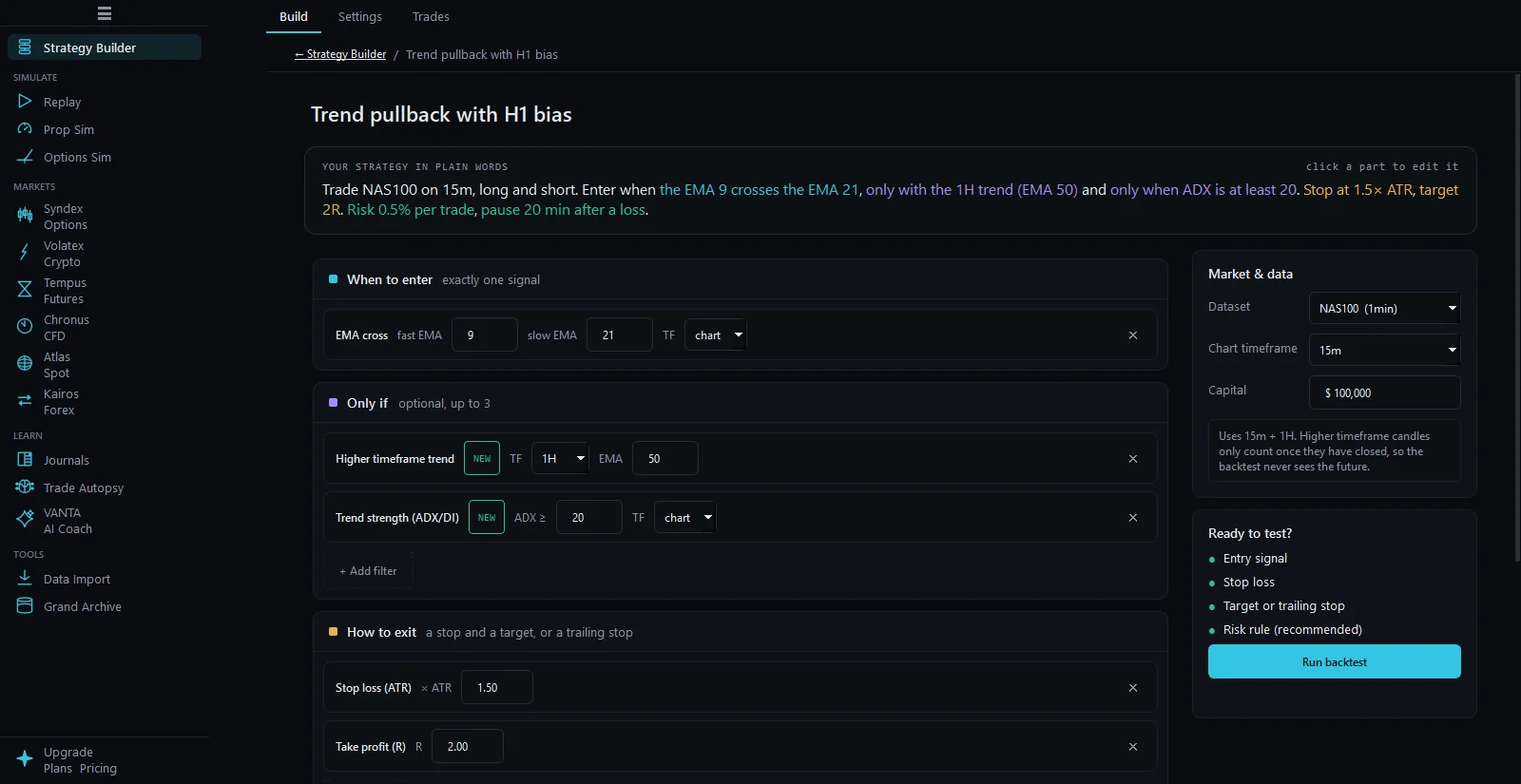
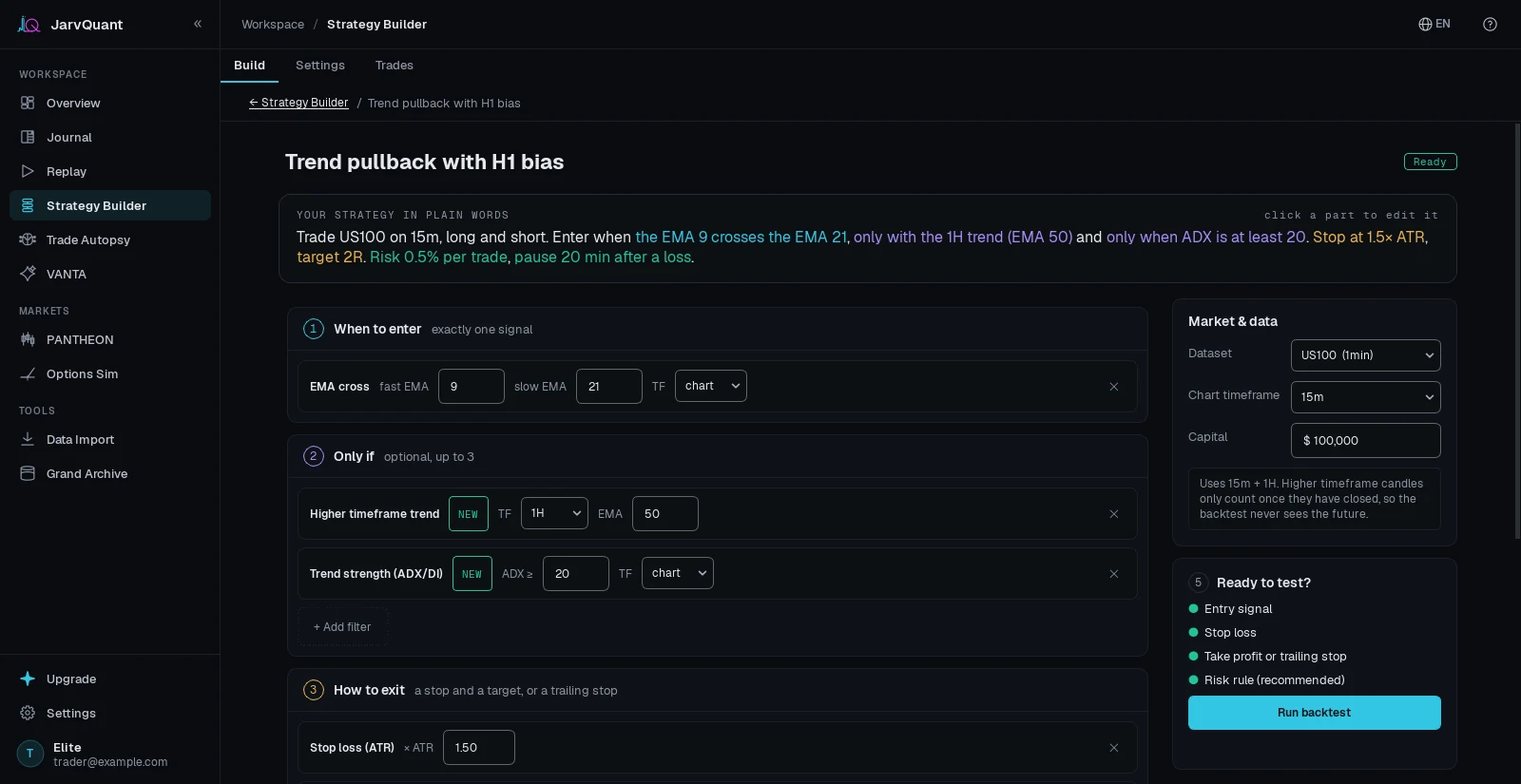
Start page for 2.0: intro ends on 10 December 2026, statements corrected, screenshots from the 2.0 app
Intro
- The opening sequence plays until the end of 10 December 2026 (visitor's
  clock); from 11 December the inline script returns before anything shows.

Statements that 2.0 made untrue
- "9 years of data included" is gone (start page EN/DE, llms.txt):
  JarvQuant ships no market data, you import your own.
- The journal is free and without an entry limit on every plan (app:
  FREE_JOURNAL_LIMIT = None since 1.1.2). Plan lists, FAQ, structured data,
  llms.txt and the price cards on the compare page now say so; the Pro
  list names "Practise any archive setup in Replay" instead, as the app's
  own pricing page does.
- VirusTotal: the linked result belonged to the 1.x installer and the 2.0
  installer has no entry there. The claim and the link are removed (hero,
  FAQ, llms.txt) until a result for 2.0 exists.
- Pricing: new purchases are paused since the 2.0 release, and Founder is
  marked as not on sale at the moment (same wording as release notes and app).

Screenshots
- Six shots rendered from the 2.0 source (release/2.0.0, 6c0132c) in an
  isolated home with made-up journal data and generated candles: Overview,
  Replay with drawing tools, Journal, Trade Autopsy, PANTHEON (Syndex option
  chain), Strategy Builder. The 1.1.0 shots of Session review and Grand
  Archive are removed. Tabs, captions (EN/DE), alt texts and the structured
  data list follow.

diff --git a/index.html b/index.html
@@ -59,11 +59,12 @@
         "Your trades and journals stay on your PC; VANTA only sends what you ask about to the AI provider you choose, or runs fully local"
       ],
       "screenshot": [
+        "https://www.jarvquant.com/assets/app-overview.webp",
         "https://www.jarvquant.com/assets/app-replay.webp",
+        "https://www.jarvquant.com/assets/app-journal.webp",
+        "https://www.jarvquant.com/assets/app-autopsy.webp",
         "https://www.jarvquant.com/assets/app-pantheon.webp",
-        "https://www.jarvquant.com/assets/app-session.webp",
-        "https://www.jarvquant.com/assets/app-builder.webp",
-        "https://www.jarvquant.com/assets/app-archive.webp"
+        "https://www.jarvquant.com/assets/app-builder.webp"
       ],
       "offers": [
         {
@@ -71,7 +72,7 @@
           "name": "Starter (Free)",
           "price": "0",
           "priceCurrency": "EUR",
-          "description": "Free forever, no credit card required. Includes bar-by-bar market replay, data imports, trade journal (10 entries rolling), and live-candle replay."
+          "description": "Free forever, no credit card required. Includes bar-by-bar market replay, data imports, an unlimited trade journal, and live-candle replay."
         },
         {
           "@type": "Offer",
@@ -84,7 +85,7 @@
             "priceCurrency": "EUR",
             "unitText": "MON"
           },
-          "description": "Unlimited journal entries. Strategy Builder with rules and constraints. Prop Firm Challenge Simulator. Backtesting engine. Algorithmic Trade Autopsy. 300+ strategy playbooks via the Grand Archive."
+          "description": "Strategy Builder with rules and constraints. Prop Firm Challenge Simulator. Backtesting engine. Algorithmic Trade Autopsy. 300+ strategy playbooks via the Grand Archive."
         },
         {
           "@type": "Offer",
@@ -152,7 +153,7 @@
           "name": "Is JarvQuant free?",
           "acceptedAnswer": {
             "@type": "Answer",
-            "text": "Yes. JarvQuant has a free Starter plan with no credit card required. It includes the bar-by-bar market replay environment, data imports, a trade journal with 10 entries rolling, and live-candle replay. Paid plans start at €39.99 per month for the Pro (Operator) tier, which unlocks unlimited journaling, Strategy Builder, backtesting, Prop Firm Challenge Simulator, Trade Autopsy, and the Grand Archive."
+            "text": "Yes. JarvQuant has a free Starter plan with no credit card required. It includes the bar-by-bar market replay environment, data imports, an unlimited trade journal, and live-candle replay. Paid plans start at €39.99 per month for the Pro (Operator) tier, which unlocks Strategy Builder, backtesting, Prop Firm Challenge Simulator, Trade Autopsy, and the Grand Archive."
           }
         },
         {
@@ -268,9 +269,10 @@
   <link rel="stylesheet" href="site.css?v=3" />
   <link rel="stylesheet" href="intro.css?v=1" />
   <link rel="modulepreload" href="intro.js?v=1" />
-  <!-- 2.0 intro: plays for arrivals from outside only, never with reduced motion, stores nothing.
+  <!-- 2.0 intro: plays until the end of 10 December 2026 (visitor's clock), for arrivals from outside only,
+       never with reduced motion, stores nothing.
        If intro.js has not arrived after 3 seconds the curtain lifts by itself. -->
-  <script>(function(){try{var d=document.documentElement,n=performance.getEntriesByType("navigation")[0],r=document.referrer;if(matchMedia("(prefers-reduced-motion: reduce)").matches||location.hash||document.hidden||innerHeight<460||(n&&n.type==="back_forward"))return;if(r&&new URL(r).hostname.replace(/^www\./,"")===location.hostname.replace(/^www\./,""))return;d.classList.add("intro-on");setTimeout(function(){if(!d.classList.contains("intro-run"))d.classList.remove("intro-on")},3000);}catch(e){}})();</script>
+  <script>(function(){try{var d=document.documentElement,n=performance.getEntriesByType("navigation")[0],r=document.referrer;if(Date.now()>=new Date(2026,11,11).getTime())return;if(matchMedia("(prefers-reduced-motion: reduce)").matches||location.hash||document.hidden||innerHeight<460||(n&&n.type==="back_forward"))return;if(r&&new URL(r).hostname.replace(/^www\./,"")===location.hostname.replace(/^www\./,""))return;d.classList.add("intro-on");setTimeout(function(){if(!d.classList.contains("intro-run"))d.classList.remove("intro-on")},3000);}catch(e){}})();</script>
 </head>
 <body>
   <a class="skip" href="#main">Skip to content</a>
@@ -337,7 +339,7 @@
           </div>
           <ul class="hero-meta fade-in" style="--d:.85s">
             <li><svg><use href="#i-check"/></svg><span data-i18n="hero.meta1">Free plan, no card required</span></li>
-            <li><svg><use href="#i-check"/></svg><a href="https://www.virustotal.com/gui/file/5308f170b821b775c8beafa9b5016dc3c2c030aa20c32b1bb8b64cafd0208225" target="_blank" rel="noopener noreferrer" data-i18n="hero.meta2">Scanned clean on VirusTotal</a></li>
+            <li><svg><use href="#i-check"/></svg><span data-i18n="hero.meta2">Interface in English and German</span></li>
             <li><svg><use href="#i-check"/></svg><span data-i18n="hero.meta3">Your trades are stored on your PC</span></li>
           </ul>
         </div>
@@ -423,7 +425,7 @@
             <article class="step on" data-step="0">
               <div class="num"><span data-i18n="loop.1.k">Replay</span></div>
               <h3 data-i18n="loop.1.t">Hide the future.</h3>
-              <p data-i18n="loop.1.d">Pick a market and a date and move forward one bar at a time. You only see what you would have seen live. 9 years of data included, or bring your own.</p>
+              <p data-i18n="loop.1.d">Pick a market and a date and move forward one bar at a time. You only see what you would have seen live. Bring your own data: CSV, Parquet or straight from MetaTrader 5.</p>
             </article>
             <article class="step" data-step="1">
               <div class="num"><span data-i18n="loop.2.k">Execute</span></div>
@@ -454,31 +456,34 @@
         <div class="showcase">
           <div class="tilt" id="tilt">
             <figure class="shot" style="margin:0">
-              <div class="shot-bar" aria-hidden="true"><span class="dot"></span><span class="dot"></span><span class="dot"></span><span class="title" id="shotTitle">JarvQuant · Replay</span></div>
+              <div class="shot-bar" aria-hidden="true"><span class="dot"></span><span class="dot"></span><span class="dot"></span><span class="title" id="shotTitle">JarvQuant · Overview</span></div>
               <div class="shot-imgs" id="shotImgs">
-                <img class="on" src="assets/app-replay.webp" width="1600" height="825" alt="Replay chart with EMA and MACD, an open long position with draggable stop and target" data-title="Replay" />
-                <img src="assets/app-pantheon.webp" width="1600" height="825" loading="lazy" alt="PANTHEON crypto market with a live chart, an open position and the liquidity heatmap" data-title="PANTHEON" />
-                <img src="assets/app-session.webp" width="1600" height="825" loading="lazy" alt="Replay session review with results in R, equity curve and trading habits" data-title="Session review" />
-                <img src="assets/app-builder.webp" width="1600" height="825" loading="lazy" alt="Strategy Builder with the strategy in plain words and four rule slots" data-title="Strategy Builder" />
-                <img src="assets/app-archive.webp" width="1600" height="825" loading="lazy" alt="Grand Archive article with an example chart and a Practice in Replay button" data-title="Grand Archive" />
+                <img class="on" src="assets/app-overview.webp?v=2" width="1600" height="825" alt="Overview with total result, win rate, equity curve, the state of a prop account and next steps" data-title="Overview" />
+                <img src="assets/app-replay.webp?v=2" width="1600" height="825" loading="lazy" alt="Replay chart with EMA and MACD, an open long position with stop and target, a trend line, a Fibonacci retracement and a support zone" data-title="Replay" />
+                <img src="assets/app-journal.webp?v=2" width="1600" height="825" loading="lazy" alt="Trading Journal with a prop account: balance, equity curve, rule status and the latest imported trades" data-title="Journal" />
+                <img src="assets/app-autopsy.webp?v=2" width="1600" height="825" loading="lazy" alt="Trade Autopsy with key findings, sessions by damage, revenge trading analysis and an activity calendar" data-title="Trade Autopsy" />
+                <img src="assets/app-pantheon.webp?v=2" width="1600" height="825" loading="lazy" alt="PANTHEON Syndex option chain with Greeks and implied volatility, contract details and the order ticket" data-title="PANTHEON" />
+                <img src="assets/app-builder.webp?v=2" width="1600" height="825" loading="lazy" alt="Strategy Builder with the strategy in plain words, entry and filter slots and a market to backtest on" data-title="Strategy Builder" />
               </div>
             </figure>
           </div>
         </div>
         <div class="tabs" role="tablist" id="tabs">
-          <button class="tab on" role="tab" aria-selected="true" data-i="0"><span data-i18n="show.t1">Replay</span><span class="bar"></span></button>
-          <button class="tab" role="tab" aria-selected="false" data-i="1"><span data-i18n="show.t2">PANTHEON</span><span class="bar"></span></button>
-          <button class="tab" role="tab" aria-selected="false" data-i="2"><span data-i18n="show.t3">Session review</span><span class="bar"></span></button>
-          <button class="tab" role="tab" aria-selected="false" data-i="3"><span data-i18n="show.t4">Strategy Builder</span><span class="bar"></span></button>
-          <button class="tab" role="tab" aria-selected="false" data-i="4"><span data-i18n="show.t5">Grand Archive</span><span class="bar"></span></button>
+          <button class="tab on" role="tab" aria-selected="true" data-i="0"><span data-i18n="show.t1">Overview</span><span class="bar"></span></button>
+          <button class="tab" role="tab" aria-selected="false" data-i="1"><span data-i18n="show.t2">Replay</span><span class="bar"></span></button>
+          <button class="tab" role="tab" aria-selected="false" data-i="2"><span data-i18n="show.t3">Journal</span><span class="bar"></span></button>
+          <button class="tab" role="tab" aria-selected="false" data-i="3"><span data-i18n="show.t4">Trade Autopsy</span><span class="bar"></span></button>
+          <button class="tab" role="tab" aria-selected="false" data-i="4"><span data-i18n="show.t5">PANTHEON</span><span class="bar"></span></button>
+          <button class="tab" role="tab" aria-selected="false" data-i="5"><span data-i18n="show.t6">Strategy Builder</span><span class="bar"></span></button>
         </div>
         <p class="caption" id="caption" aria-live="polite"></p>
         <div hidden>
-          <span data-i18n="show.c1" id="cap0">Replay: your markets bar by bar or second by second, with indicators on the chart and your stop and target as handles you drag.</span>
-          <span data-i18n="show.c2" id="cap1">PANTHEON: six live synthetic markets with an order book, a depth chart and a liquidity heatmap that keeps an hour of history.</span>
-          <span data-i18n="show.c3" id="cap2">Session review: after every Replay session the numbers in plain words, your equity in R and the habits that make or cost you money.</span>
-          <span data-i18n="show.c4" id="cap3">Strategy Builder: four slots, no code. Your rules read back as one sentence, then a backtest with costs included.</span>
-          <span data-i18n="show.c5" id="cap4">Grand Archive: 300+ playbooks with checked example charts and a button that opens the setup in Replay.</span>
+          <span data-i18n="show.c1" id="cap0">Overview: your result, win rate and equity curve at a glance, the state of your account and the next steps from your own numbers.</span>
+          <span data-i18n="show.c2" id="cap1">Replay: your markets bar by bar or second by second, with indicators, 16 drawing tools and your stop and target as handles you drag.</span>
+          <span data-i18n="show.c3" id="cap2">Journal: import your trades, track a prop account against its rules and see balance, equity curve and rule status on one board.</span>
+          <span data-i18n="show.c4" id="cap3">Trade Autopsy: where the money goes. Sessions by damage, revenge trades and how your day changes after the second trade.</span>
+          <span data-i18n="show.c5" id="cap4">PANTHEON: six simulated markets. Here the Syndex option chain with Greeks, implied volatility and the order ticket beside it.</span>
+          <span data-i18n="show.c6" id="cap5">Strategy Builder: four slots, no code. Your rules read back as one sentence, then a backtest with costs included.</span>
         </div>
       </div>
     </section>
@@ -525,7 +530,7 @@
       <div class="wrap">
         <div class="section-head center" data-reveal>
           <h2 data-i18n="pricing.title">Start free, upgrade when you need more.</h2>
-          <p data-i18n="pricing.sub">No card to start. Paid plans and the 7-day Elite trial are in the app.</p>
+          <p data-i18n="pricing.sub">No card to start. New purchases are paused for now, the payment page opens at a later date. The 7-day Elite trial is in the app.</p>
         </div>
 
         <div class="plans">
@@ -537,7 +542,7 @@
             <ul>
               <li><svg><use href="#i-check"/></svg><span data-i18n="plan.free.f1">Bar-by-bar market replay environment</span></li>
               <li><svg><use href="#i-check"/></svg><span data-i18n="plan.free.f2">Data import (CSV, Parquet, MT5)</span></li>
-              <li><svg><use href="#i-check"/></svg><span data-i18n="plan.free.f3">Trade journal: 10 entries rolling</span></li>
+              <li><svg><use href="#i-check"/></svg><span data-i18n="plan.free.f3">Trade journal, unlimited (Replay and live)</span></li>
               <li><svg><use href="#i-check"/></svg><span data-i18n="plan.free.f4">Live-candle replay, second by second</span></li>
             </ul>
             <a class="btn btn-secondary btn-block" href="https://github.com/JarvQuant/jarvquant-releases/releases/latest/download/JarvQuant-Setup.exe" data-i18n="plan.free.cta">Download Free</a>
@@ -550,7 +555,7 @@
             <div class="plan-price"><span class="amt">€39.99</span><span class="per" data-i18n="plan.per_month">/ month</span></div>
             <div class="plan-note" data-i18n="plan.pro.period">Billed monthly · cancel anytime</div>
             <ul>
-              <li><svg><use href="#i-check"/></svg><span data-i18n="plan.pro.f1">Unlimited journal entries</span></li>
+              <li><svg><use href="#i-check"/></svg><span data-i18n="plan.pro.f1">Practise any archive setup in Replay</span></li>
               <li><svg><use href="#i-check"/></svg><span data-i18n="plan.pro.f2">Strategy Builder with rules and constraints</span></li>
               <li><svg><use href="#i-check"/></svg><span data-i18n="plan.pro.f3">Prop firm challenge simulator with rule presets</span></li>
               <li><svg><use href="#i-check"/></svg><span data-i18n="plan.pro.f4">Backtesting engine</span></li>
@@ -587,7 +592,7 @@
             <div class="plan-tier" data-i18n="lifetime.tag">FOUNDERS · LIMITED 200</div>
             <h3 data-i18n="lifetime.name">Founder</h3>
             <div class="price">€1,499<small data-i18n="lifetime.note">one-time</small></div>
-            <p data-i18n="lifetime.body">Pay once. Use without end date. Everything in Architect at purchase, PANTHEON with all markets and KAIROS, plus an offline certificate that keeps working without our server. Updates and priority support while JarvQuant is actively maintained. Third-party AI, market data and broker services not included. 200 seats.</p>
+            <p data-i18n="lifetime.body">Pay once. Use without end date. Everything in Architect at purchase, PANTHEON with all markets and KAIROS, plus an offline certificate that keeps working without our server. Updates and priority support while JarvQuant is actively maintained. Third-party AI, market data and broker services not included. 200 seats. Not on sale at the moment.</p>
           </div>
         </div>
 
@@ -608,9 +613,9 @@
           <details><summary data-i18n="faq.3.q">Can I practise options trading?</summary><p data-i18n="faq.3.a">Yes. PANTHEON is a synthetic options market with a full chain, live Greeks (delta, gamma, theta, vega), an implied volatility surface and an order book. Practise long calls and puts, covered calls, spreads and straddles without risking capital.</p></details>
           <details><summary data-i18n="faq.4.q">How is this different from paper trading with a broker?</summary><p data-i18n="faq.4.a">Broker paper trading runs in real time, so rehearsing a setup means waiting for it to happen again. JarvQuant replays history at any speed, so you can work through hundreds of setups in an afternoon while future bars stay hidden.</p></details>
           <details><summary data-i18n="faq.5.q">Can I prepare for a prop firm challenge?</summary><p data-i18n="faq.5.a">Yes. The Prop Firm Simulator reproduces evaluation rules: a profit target, a maximum daily loss, a maximum drawdown and an optional consistency rule, so you learn how you behave under those rules before paying an evaluation fee.</p></details>
-          <details><summary data-i18n="faq.6.q">Is it free, and is there a trial?</summary><p data-i18n="faq.6.a">The free plan includes bar-by-bar replay, data import and a journal capped at 10 entries, with no card and no time limit. A 7-day Elite trial can be started inside the app and unlocks everything, including PANTHEON and VANTA.</p></details>
+          <details><summary data-i18n="faq.6.q">Is it free, and is there a trial?</summary><p data-i18n="faq.6.a">The free plan includes bar-by-bar replay, data import and the trade journal without an entry limit, with no card and no time limit. A 7-day Elite trial can be started inside the app and unlocks everything, including PANTHEON and VANTA.</p></details>
           <details><summary data-i18n="faq.7.q">Does it work with MetaTrader 5?</summary><p data-i18n="faq.7.a">Yes. JarvQuant ships no market data: you bring your own. The MT5 bridge pulls price history straight from your terminal into Replay, and CSV, TradingView or Parquet files work too. Your real trades go into the Live journal, where Trade Autopsy reviews them next to your simulated sessions.</p></details>
-          <details><summary data-i18n="faq.8.q">Which platforms are supported?</summary><p data-i18n="faq.8.a">JarvQuant is a native Windows desktop app with a one-click installer. Every release is published on GitHub and scanned on VirusTotal. The interface is available in English and German.</p></details>
+          <details><summary data-i18n="faq.8.q">Which platforms are supported?</summary><p data-i18n="faq.8.a">JarvQuant is a native Windows desktop app with a one-click installer. Every release is published on GitHub. The interface is available in English and German.</p></details>
         </div>
       </div>
     </section>

diff --git a/site.js b/site.js
@@ -20,7 +20,7 @@ const SITE = {
     "hero.title": "Find the mistakes that cost you money.",
     "hero.lede": "Practise on your own market data with the future hidden. After every session JarvQuant shows you where you keep losing, so you fix it before you trade live.",
     "hero.meta1": "Free plan, no card required",
-    "hero.meta2": "Scanned clean on VirusTotal",
+    "hero.meta2": "Interface in English and German",
     "hero.meta3": "Your trades are stored on your PC",
     "hud.mode": "Replay",
     "hud.bar": "Bar",
@@ -31,7 +31,7 @@ const SITE = {
     "loop.title": "Practise a setup until you trust it.",
     "loop.1.k": "Replay",
     "loop.1.t": "Hide the future.",
-    "loop.1.d": "Pick a market and a date and move forward one bar at a time. You only see what you would have seen live. 9 years of data included, or bring your own.",
+    "loop.1.d": "Pick a market and a date and move forward one bar at a time. You only see what you would have seen live. Bring your own data: CSV, Parquet or straight from MetaTrader 5.",
     "loop.2.k": "Execute",
     "loop.2.t": "Trade it like it's real.",
     "loop.2.d": "Market, limit and stop orders with spread, slippage and fees. Turn on prop firm rules when you want the pressure.",
@@ -43,16 +43,18 @@ const SITE = {
     "loop.4.d": "Save what you learned as rules, like 3 trades a day or a pause after a loss, then backtest whether your plan still holds.",
 
     "show.title": "Real screenshots from the app.",
-    "show.t1": "Replay",
-    "show.t2": "PANTHEON",
-    "show.t3": "Session review",
-    "show.t4": "Strategy Builder",
-    "show.t5": "Grand Archive",
-    "show.c1": "Replay: your markets bar by bar or second by second, with indicators on the chart and your stop and target as handles you drag.",
-    "show.c2": "PANTHEON: six live synthetic markets with an order book, a depth chart and a liquidity heatmap that keeps an hour of history.",
-    "show.c3": "Session review: after every Replay session the numbers in plain words, your equity in R and the habits that make or cost you money.",
-    "show.c4": "Strategy Builder: four slots, no code. Your rules read back as one sentence, then a backtest with costs included.",
-    "show.c5": "Grand Archive: 300+ playbooks with checked example charts and a button that opens the setup in Replay.",
+    "show.t1": "Overview",
+    "show.t2": "Replay",
+    "show.t3": "Journal",
+    "show.t4": "Trade Autopsy",
+    "show.t5": "PANTHEON",
+    "show.t6": "Strategy Builder",
+    "show.c1": "Overview: your result, win rate and equity curve at a glance, the state of your account and the next steps from your own numbers.",
+    "show.c2": "Replay: your markets bar by bar or second by second, with indicators, 16 drawing tools and your stop and target as handles you drag.",
+    "show.c3": "Journal: import your trades, track a prop account against its rules and see balance, equity curve and rule status on one board.",
+    "show.c4": "Trade Autopsy: where the money goes. Sessions by damage, revenge trades and how your day changes after the second trade.",
+    "show.c5": "PANTHEON: six simulated markets. Here the Syndex option chain with Greeks, implied volatility and the order ticket beside it.",
+    "show.c6": "Strategy Builder: four slots, no code. Your rules read back as one sentence, then a backtest with costs included.",
 
     "features.title": "One app instead of five tabs and a spreadsheet.",
     "f.replay.t": "Market Replay",
@@ -86,7 +88,7 @@ const SITE = {
     "pr.3.d": "Ideas and bug reports from the Discord are read by the person who builds the app.",
 
     "pricing.title": "Start free, upgrade when you need more.",
-    "pricing.sub": "No card to start. Paid plans and the 7-day Elite trial are in the app.",
+    "pricing.sub": "No card to start. New purchases are paused for now, the payment page opens at a later date. The 7-day Elite trial is in the app.",
     "pricing.fine": "Before you pay, the app shows you an overview with price, term and cancellation. You have a 14-day right of withdrawal from the conclusion of the contract, also once you use your access. Subscriptions can be cancelled at any time with effect from the end of the billing period.",
     "plan.per_month": "/ month",
     "plan.cta_inapp": "Download and upgrade in-app",
@@ -106,11 +108,11 @@ const SITE = {
     "faq.5.q": "Can I prepare for a prop firm challenge?",
     "faq.5.a": "Yes. The Prop Firm Simulator reproduces evaluation rules: a profit target, a maximum daily loss, a maximum drawdown and an optional consistency rule, so you learn how you behave under those rules before paying an evaluation fee.",
     "faq.6.q": "Is it free, and is there a trial?",
-    "faq.6.a": "The free plan includes bar-by-bar replay, data import and a journal capped at 10 entries, with no card and no time limit. A 7-day Elite trial can be started inside the app and unlocks everything, including PANTHEON and VANTA.",
+    "faq.6.a": "The free plan includes bar-by-bar replay, data import and the trade journal without an entry limit, with no card and no time limit. A 7-day Elite trial can be started inside the app and unlocks everything, including PANTHEON and VANTA.",
     "faq.7.q": "Does it work with MetaTrader 5?",
     "faq.7.a": "Yes. JarvQuant ships no market data: you bring your own. The MT5 bridge pulls price history straight from your terminal into Replay, and CSV, TradingView or Parquet files work too. Your real trades go into the Live journal, where Trade Autopsy reviews them next to your simulated sessions.",
     "faq.8.q": "Which platforms are supported?",
-    "faq.8.a": "JarvQuant is a native Windows desktop app with a one-click installer. Every release is published on GitHub and scanned on VirusTotal. The interface is available in English and German.",
+    "faq.8.a": "JarvQuant is a native Windows desktop app with a one-click installer. Every release is published on GitHub. The interface is available in English and German.",
 
     "final.title": "Your next hundred trades can be practice.",
     "final.sub": "Install the free plan and replay your first session in a few minutes.",
@@ -149,7 +151,7 @@ const SITE = {
     "hero.title": "Finde die Fehler, die dich Geld kosten.",
     "hero.lede": "Übe auf deinen eigenen Marktdaten, ohne die Zukunft zu sehen. Nach jeder Session zeigt dir JarvQuant, wo du immer wieder verlierst, damit du es abstellst, bevor du live tradest.",
     "hero.meta1": "Gratis-Plan, keine Karte nötig",
-    "hero.meta2": "Sauber laut VirusTotal",
+    "hero.meta2": "Oberfläche auf Deutsch und Englisch",
     "hero.meta3": "Deine Trades liegen auf deinem PC",
     "hud.mode": "Replay",
     "hud.bar": "Kerze",
@@ -160,7 +162,7 @@ const SITE = {
     "loop.title": "Üb ein Setup, bis du ihm vertraust.",
     "loop.1.k": "Replay",
     "loop.1.t": "Versteck die Zukunft.",
-    "loop.1.d": "Wähl Markt und Datum und geh Kerze für Kerze vorwärts. Du siehst nur, was du live gesehen hättest. 9 Jahre Daten inklusive, oder bring deine eigenen mit.",
+    "loop.1.d": "Wähl Markt und Datum und geh Kerze für Kerze vorwärts. Du siehst nur, was du live gesehen hättest. Die Daten bringst du selbst mit: CSV, Parquet oder direkt aus MetaTrader 5.",
     "loop.2.k": "Ausführen",
     "loop.2.t": "Trade es, als wäre es echt.",
     "loop.2.d": "Market-, Limit- und Stop-Orders mit Spread, Slippage und Gebühren. Prop-Firm-Regeln schaltest du dazu, wenn du den Druck willst.",
@@ -172,16 +174,18 @@ const SITE = {
     "loop.4.d": "Speicher, was du gelernt hast, als Regeln, etwa 3 Trades pro Tag oder eine Pause nach einem Verlust, und prüf per Backtest, ob dein Plan noch trägt.",
 
     "show.title": "Echte Screenshots aus der App.",
-    "show.t1": "Replay",
-    "show.t2": "PANTHEON",
-    "show.t3": "Session-Auswertung",
-    "show.t4": "Strategy Builder",
-    "show.t5": "Grand Archive",
-    "show.c1": "Replay: deine Märkte Bar für Bar oder Sekunde für Sekunde, mit Indikatoren im Chart und Stop und Ziel als Griffe, die du ziehst.",
-    "show.c2": "PANTHEON: sechs synthetische Live-Märkte mit Orderbuch, Tiefen-Chart und einer Liquiditäts-Heatmap mit einer Stunde Historie.",
-    "show.c3": "Session-Auswertung: nach jeder Replay-Session die Zahlen in klaren Worten, deine Equity in R und die Gewohnheiten, die dir Geld bringen oder kosten.",
-    "show.c4": "Strategy Builder: vier Felder, kein Code. Deine Regeln als ein Satz, dann ein Backtest mit Kosten.",
-    "show.c5": "Grand Archive: über 300 Playbooks mit geprüften Beispielcharts und einem Button, der das Setup direkt in Replay öffnet.",
+    "show.t1": "Übersicht",
+    "show.t2": "Replay",
+    "show.t3": "Journal",
+    "show.t4": "Trade Autopsy",
+    "show.t5": "PANTHEON",
+    "show.t6": "Strategy Builder",
+    "show.c1": "Übersicht: Ergebnis, Trefferquote und Equity-Kurve auf einen Blick, dazu der Stand deines Kontos und die nächsten Schritte aus deinen eigenen Zahlen.",
+    "show.c2": "Replay: deine Märkte Kerze für Kerze oder Sekunde für Sekunde, mit Indikatoren, 16 Zeichenwerkzeugen und Stop und Ziel als Griffe, die du ziehst.",
+    "show.c3": "Journal: Trades importieren, ein Prop-Konto gegen seine Regeln verfolgen und Kontostand, Equity-Kurve und Regelstatus auf einem Board sehen.",
+    "show.c4": "Trade Autopsy: wohin das Geld geht. Sessions nach Schaden, Revenge-Trades und wie sich dein Tag nach dem zweiten Trade verändert.",
+    "show.c5": "PANTHEON: sechs simulierte Märkte. Hier die Syndex-Optionskette mit Greeks, impliziter Volatilität und dem Order-Ticket daneben.",
+    "show.c6": "Strategy Builder: vier Felder, kein Code. Deine Regeln als ein Satz, dann ein Backtest mit Kosten.",
 
     "features.title": "Eine App statt fünf Tabs und einer Tabelle.",
     "f.replay.t": "Markt-Replay",
@@ -215,7 +219,7 @@ const SITE = {
     "pr.3.d": "Ideen und Bug-Reports aus dem Discord liest der, der die App baut.",
 
     "pricing.title": "Starte kostenlos und upgrade, wenn du mehr brauchst.",
-    "pricing.sub": "Keine Karte zum Start. Bezahlpläne und die 7-tägige Elite-Testphase gibt es in der App.",
+    "pricing.sub": "Keine Karte zum Start. Neue Käufe sind im Moment pausiert, die Bezahlseite öffnet zu einem späteren Zeitpunkt. Die 7-tägige Elite-Testphase gibt es in der App.",
     "pricing.fine": "Vor dem Bezahlen zeigt dir die App eine Übersicht mit Preis, Laufzeit und Kündigung. Du hast ein Widerrufsrecht von 14 Tagen ab Vertragsschluss, auch wenn du den Zugang schon nutzt. Abos kannst du jederzeit zum Ende des Abrechnungszeitraums kündigen.",
     "plan.per_month": "/ Monat",
     "plan.cta_inapp": "Herunterladen und in der App upgraden",
@@ -235,11 +239,11 @@ const SITE = {
     "faq.5.q": "Kann ich mich auf eine Prop-Firm-Challenge vorbereiten?",
     "faq.5.a": "Ja. Der Prop-Firm-Simulator bildet Prüfungsregeln nach: ein Gewinnziel, einen maximalen Tagesverlust, einen maximalen Drawdown und eine optionale Konsistenzregel. So lernst du, wie du dich unter diesen Regeln verhältst, bevor du eine Prüfungsgebühr zahlst.",
     "faq.6.q": "Ist es kostenlos, und gibt es eine Testphase?",
-    "faq.6.a": "Der Gratis-Plan enthält Kerze-für-Kerze-Replay, Datenimport und ein Journal mit bis zu 10 Einträgen, ohne Karte und ohne Zeitlimit. Eine 7-tägige Elite-Testphase lässt sich in der App starten und schaltet alles frei, auch PANTHEON und VANTA.",
+    "faq.6.a": "Der Gratis-Plan enthält Kerze-für-Kerze-Replay, Datenimport und das Trading-Journal ohne Eintragsgrenze, ohne Karte und ohne Zeitlimit. Eine 7-tägige Elite-Testphase lässt sich in der App starten und schaltet alles frei, auch PANTHEON und VANTA.",
     "faq.7.q": "Funktioniert es mit MetaTrader 5?",
     "faq.7.a": "Ja. JarvQuant liefert keine Marktdaten mit: Du bringst deine eigenen mit. Die MT5-Brücke holt Kursdaten direkt aus deinem Terminal ins Replay, CSV-, TradingView- und Parquet-Dateien gehen auch. Deine echten Trades trägst du ins Live-Journal ein, und Trade Autopsy wertet sie neben deinen simulierten Sessions aus.",
     "faq.8.q": "Welche Plattformen werden unterstützt?",
-    "faq.8.a": "JarvQuant ist eine native Windows-Desktop-App mit Ein-Klick-Installer. Jedes Release wird auf GitHub veröffentlicht und bei VirusTotal geprüft. Die Oberfläche gibt es auf Englisch und Deutsch.",
+    "faq.8.a": "JarvQuant ist eine native Windows-Desktop-App mit Ein-Klick-Installer. Jedes Release wird auf GitHub veröffentlicht. Die Oberfläche gibt es auf Englisch und Deutsch.",
 
     "final.title": "Deine nächsten hundert Trades können Übung sein.",
     "final.sub": "Installiere den Gratis-Plan und spiel in wenigen Minuten deine erste Session ab.",

diff --git a/i18n.js b/i18n.js
@@ -20,14 +20,14 @@ export const I18N = {
     "plan.free.period": "Forever. No card.",
     "plan.free.f1": "Bar-by-bar market replay environment",
     "plan.free.f2": "Data import (CSV, Parquet, MT5)",
-    "plan.free.f3": "Trade journal: 10 entries rolling",
+    "plan.free.f3": "Trade journal, unlimited (Replay and live)",
     "plan.free.f4": "Live-candle replay, second by second",
     "plan.free.cta": "Download Free",
 
     "plan.pro.tag": "PRO",
     "plan.pro.flag": "MOST POPULAR",
     "plan.pro.period": "Billed monthly · cancel anytime",
-    "plan.pro.f1": "Unlimited journal entries",
+    "plan.pro.f1": "Practise any archive setup in Replay",
     "plan.pro.f2": "Strategy Builder with rules and constraints",
     "plan.pro.f3": "Prop firm challenge simulator with rule presets",
     "plan.pro.f4": "Backtesting engine",
@@ -48,7 +48,7 @@ export const I18N = {
 
     "lifetime.tag": "FOUNDERS · LIMITED 200",
     "lifetime.name": "Founder",
-    "lifetime.body": "Pay once. Use without end date. Everything in Architect at purchase, PANTHEON with all markets and KAIROS, plus an offline certificate that keeps working without our server. Updates and priority support while JarvQuant is actively maintained. Third-party AI, market data and broker services not included. 200 seats.",
+    "lifetime.body": "Pay once. Use without end date. Everything in Architect at purchase, PANTHEON with all markets and KAIROS, plus an offline certificate that keeps working without our server. Updates and priority support while JarvQuant is actively maintained. Third-party AI, market data and broker services not included. 200 seats. Not on sale at the moment.",
     "lifetime.note": "one-time",
 
     // 2.0 intro (intro.js). Every line is taken from the 2.0.0 release notes.
@@ -96,14 +96,14 @@ export const I18N = {
     "plan.free.period": "Für immer. Keine Karte.",
     "plan.free.f1": "Replay-first Chart-Environment",
     "plan.free.f2": "Daten-Imports",
-    "plan.free.f3": "Journal Lite: 10 Einträge rolling",
+    "plan.free.f3": "Trading-Journal, unbegrenzt (Replay und Live)",
     "plan.free.f4": "Live-Kerzen-Replay, Sekunde für Sekunde",
     "plan.free.cta": "Kostenlos Downloaden",
 
     "plan.pro.tag": "PRO",
     "plan.pro.flag": "MEISTGEWÄHLT",
     "plan.pro.period": "Monatlich abgerechnet · jederzeit kündbar",
-    "plan.pro.f1": "Unbegrenzte Journal-Einträge",
+    "plan.pro.f1": "Jedes Archiv-Setup im Replay üben",
     "plan.pro.f2": "Strategy Builder Sandbox",
     "plan.pro.f3": "Prop Sim mit Rule-Presets",
     "plan.pro.f4": "Backtesting",
@@ -124,7 +124,7 @@ export const I18N = {
 
     "lifetime.tag": "FOUNDERS · LIMITIERT 200",
     "lifetime.name": "Founder",
-    "lifetime.body": "Einmal zahlen. Unbefristet nutzen. Alles aus Architect zum Kaufzeitpunkt, PANTHEON mit allen Märkten und KAIROS, dazu ein Offline-Zertifikat, das ohne unseren Server funktioniert. Updates und bevorzugter Support, solange JarvQuant aktiv gepflegt wird. KI-, Marktdaten- und Brokerdienste Dritter nicht enthalten. 200 Plätze.",
+    "lifetime.body": "Einmal zahlen. Unbefristet nutzen. Alles aus Architect zum Kaufzeitpunkt, PANTHEON mit allen Märkten und KAIROS, dazu ein Offline-Zertifikat, das ohne unseren Server funktioniert. Updates und bevorzugter Support, solange JarvQuant aktiv gepflegt wird. KI-, Marktdaten- und Brokerdienste Dritter nicht enthalten. 200 Plätze. Derzeit nicht im Verkauf.",
     "lifetime.note": "einmalig",
 
     // 2.0 intro (intro.js)

diff --git a/compare.html b/compare.html
@@ -67,7 +67,7 @@
           "name": "Does JarvQuant have a free plan?",
           "acceptedAnswer": {
             "@type": "Answer",
-            "text": "Yes. JarvQuant has a free Starter plan with no credit card required. It includes bar-by-bar market replay, data import, a rolling trade journal, and one strategy slot. TradeZella has no free plan. FXReplay and Tradervue offer limited free tiers. All paid upgrades happen inside the app once you have created your account."
+            "text": "Yes. JarvQuant has a free Starter plan with no credit card required. It includes bar-by-bar market replay, data import, and an unlimited trade journal. TradeZella has no free plan. FXReplay and Tradervue offer limited free tiers. All paid upgrades happen inside the app once you have created your account."
           }
         },
         {
@@ -646,7 +646,7 @@
           <ul class="price-includes">
             <li>Bar-by-bar market replay</li>
             <li>Data import (CSV / Parquet / MT5)</li>
-            <li>Journal: 10 entries rolling</li>
+            <li>Trade journal, unlimited (Replay and live)</li>
             <li>Live-candle replay, second by second</li>
           </ul>
           <div class="price-vs">
@@ -662,7 +662,7 @@
           <div class="price-amount">€39.99<span class="price-per">/mo</span></div>
           <div class="price-period">Billed monthly · cancel anytime</div>
           <ul class="price-includes">
-            <li>Unlimited journal entries</li>
+            <li>Practise any archive setup in Replay</li>
             <li>Strategy Builder with constraints</li>
             <li>Prop Firm Challenge Simulator</li>
             <li>Backtesting engine</li>
